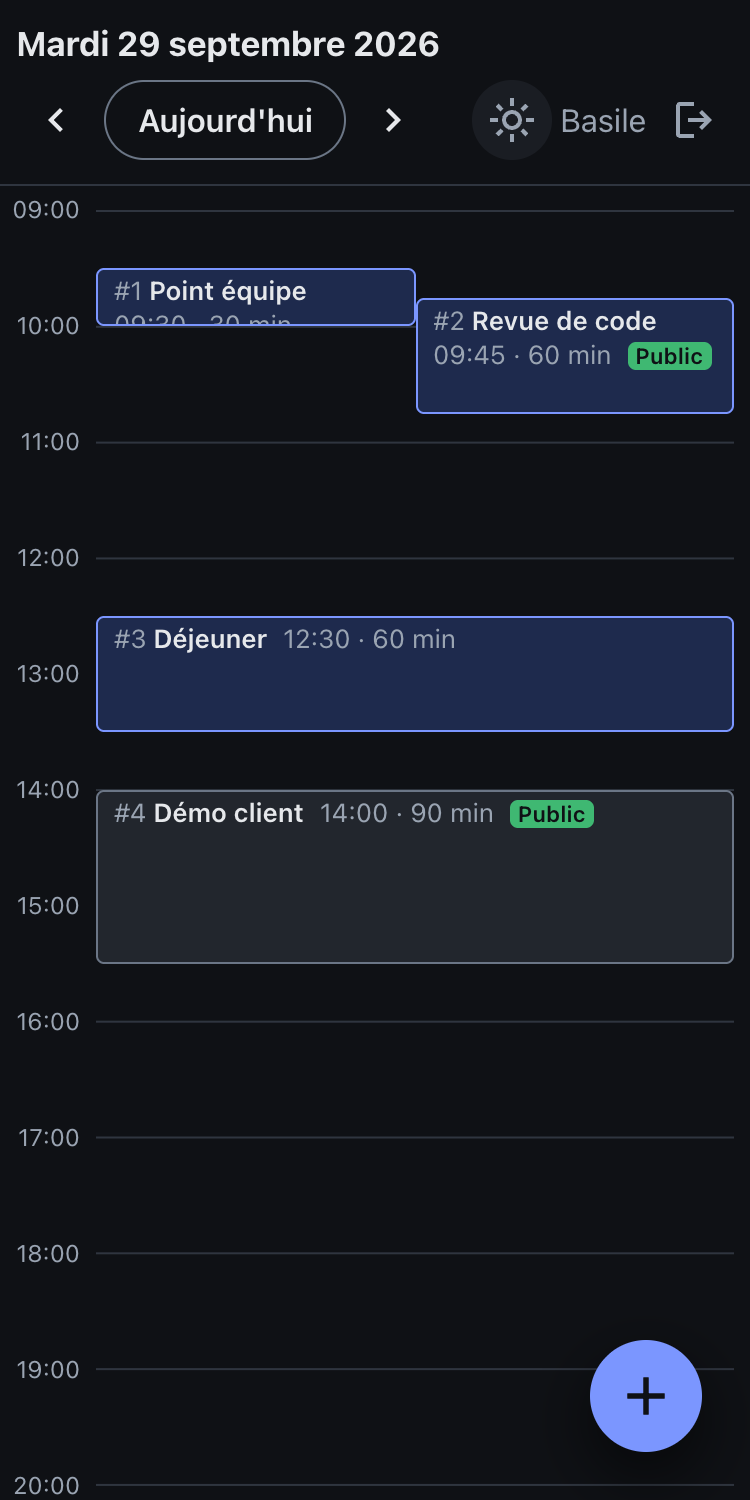
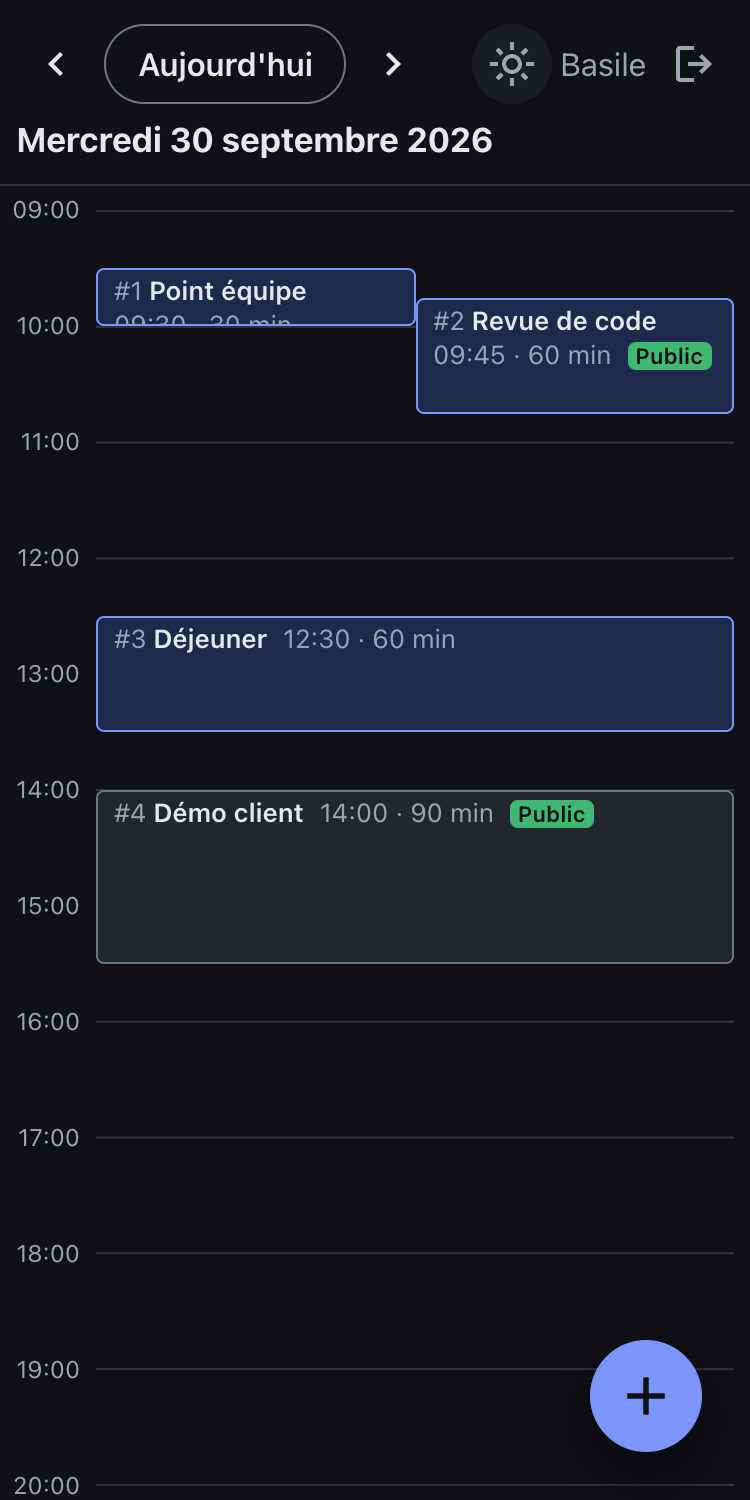
fix(calendar): keep the day navigation in place whatever the date length

Changed region(s): [[0.0307, 0.0, 0.7053, 0.1227], [0.736, 0.0307, 0.8587, 0.092], [0.8893, 0.0307, 0.9507, 0.092]]

diff --git a/src/features/calendar/CalendarHeader.tsx b/src/features/calendar/CalendarHeader.tsx
@@ -13,9 +13,6 @@ export function CalendarHeader({ date }: { date: string }) {
 
   return (
     <header className={styles.header}>
-      <h1 className={styles.title}>
-        <time dateTime={date}>{formatDayTitle(date)}</time>
-      </h1>
       <nav aria-label="Changer de jour" className={styles.nav}>
         <Link to={`/${addDays(date, -1)}`} className={styles.iconLink} aria-label="Jour précédent">
           <ChevronLeftIcon />
@@ -31,6 +28,9 @@ export function CalendarHeader({ date }: { date: string }) {
           <ChevronRightIcon />
         </Link>
       </nav>
+      <h1 className={styles.title}>
+        <time dateTime={date}>{formatDayTitle(date)}</time>
+      </h1>
       <div className={styles.user}>
         <ThemeToggle />
         <span>{user.displayName}</span>

diff --git a/src/features/calendar/CalendarHeader.module.scss b/src/features/calendar/CalendarHeader.module.scss
@@ -15,6 +15,11 @@
 .title {
   font-size: clamp(1.0625rem, 4vw, 1.25rem);
 
+  @media (width < 30rem) {
+    order: 1;
+    flex-basis: 100%;
+  }
+
   &::first-letter {
     text-transform: uppercase;
   }
